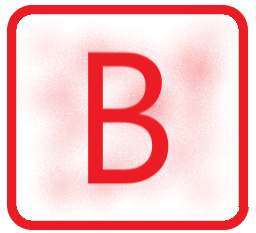
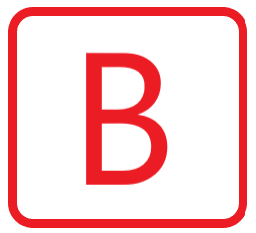
Version 2.5 small update
Updated the website icon

Changed region(s): [[0.125, 0.1502, 0.875, 0.8712], [0.0, 0.0, 0.9688, 0.9914]]

diff --git a/blogs.html b/blogs.html
@@ -53,6 +53,8 @@
                 - Updated the scrollbar colors for Firefox browser
                 <br>
                 - The blogs now have their own url shortcut (For example: berosato.github.io/blogs#v2.5)
+                <br>
+                - <em>New!</em> Updated the website icon
             </p>
             <h4>Known issue</h4>
             <p>- The header buttons place is a bit up than it should be on the blogs and 404 pages</p>
